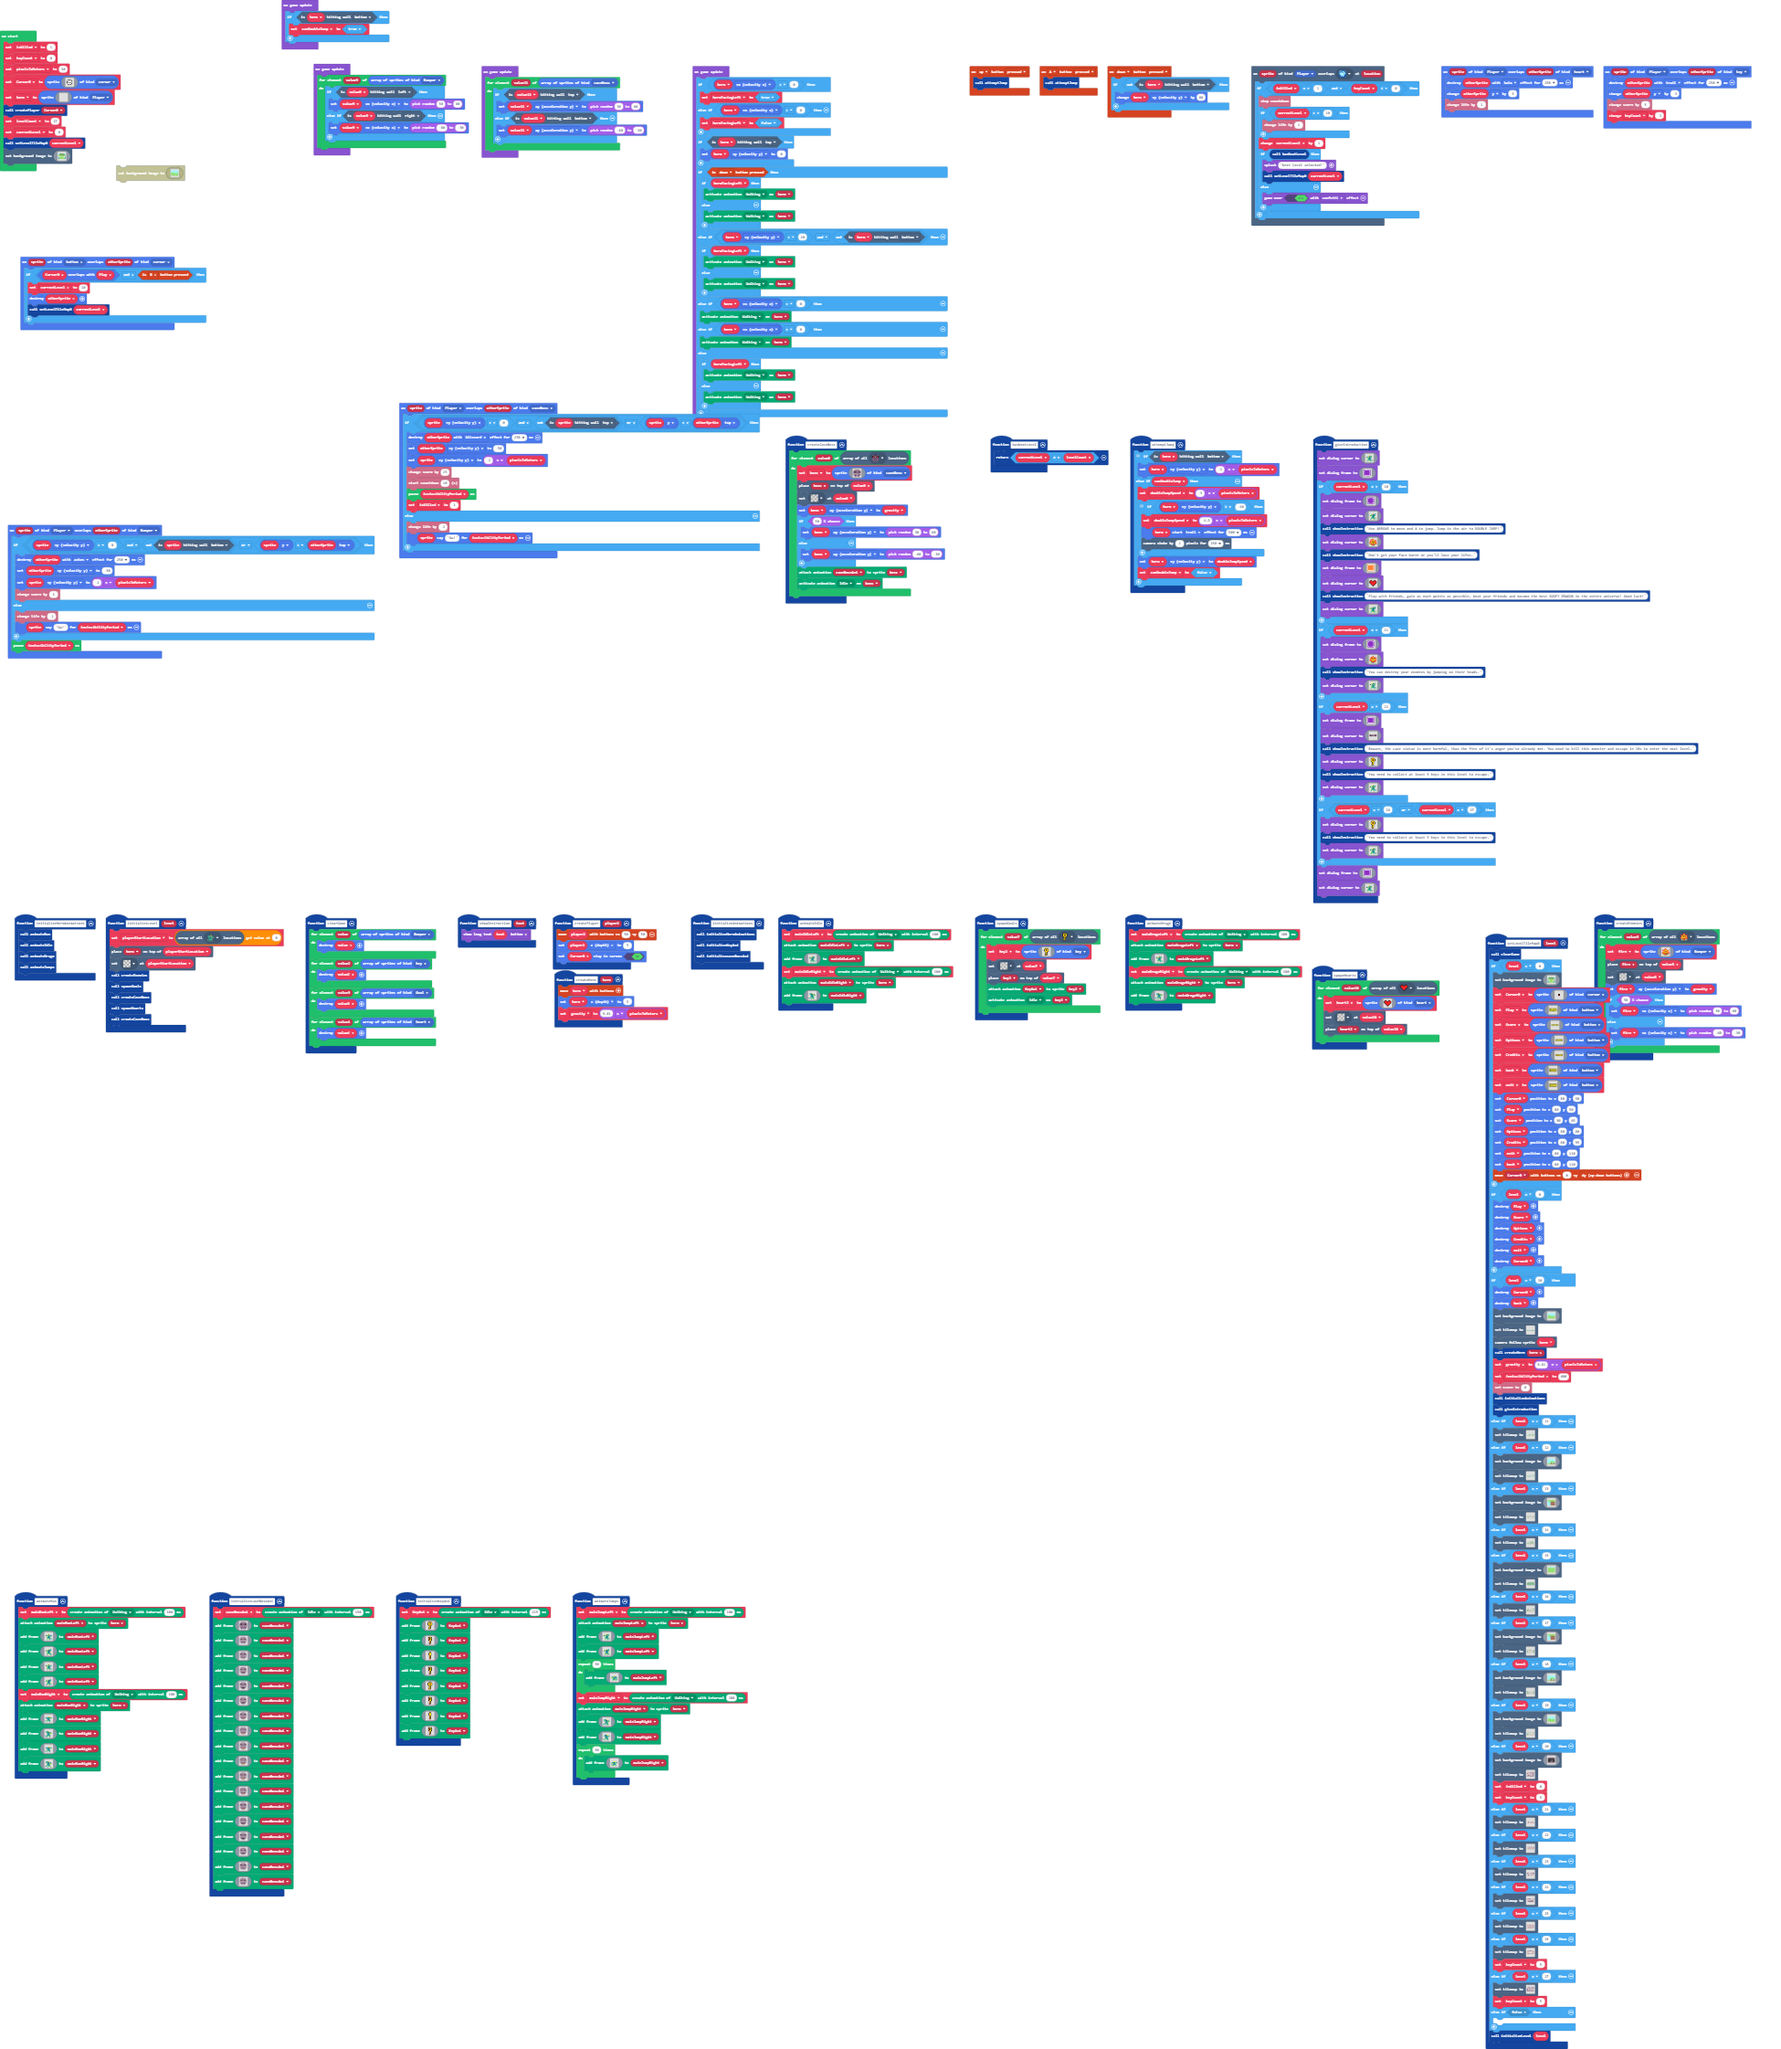
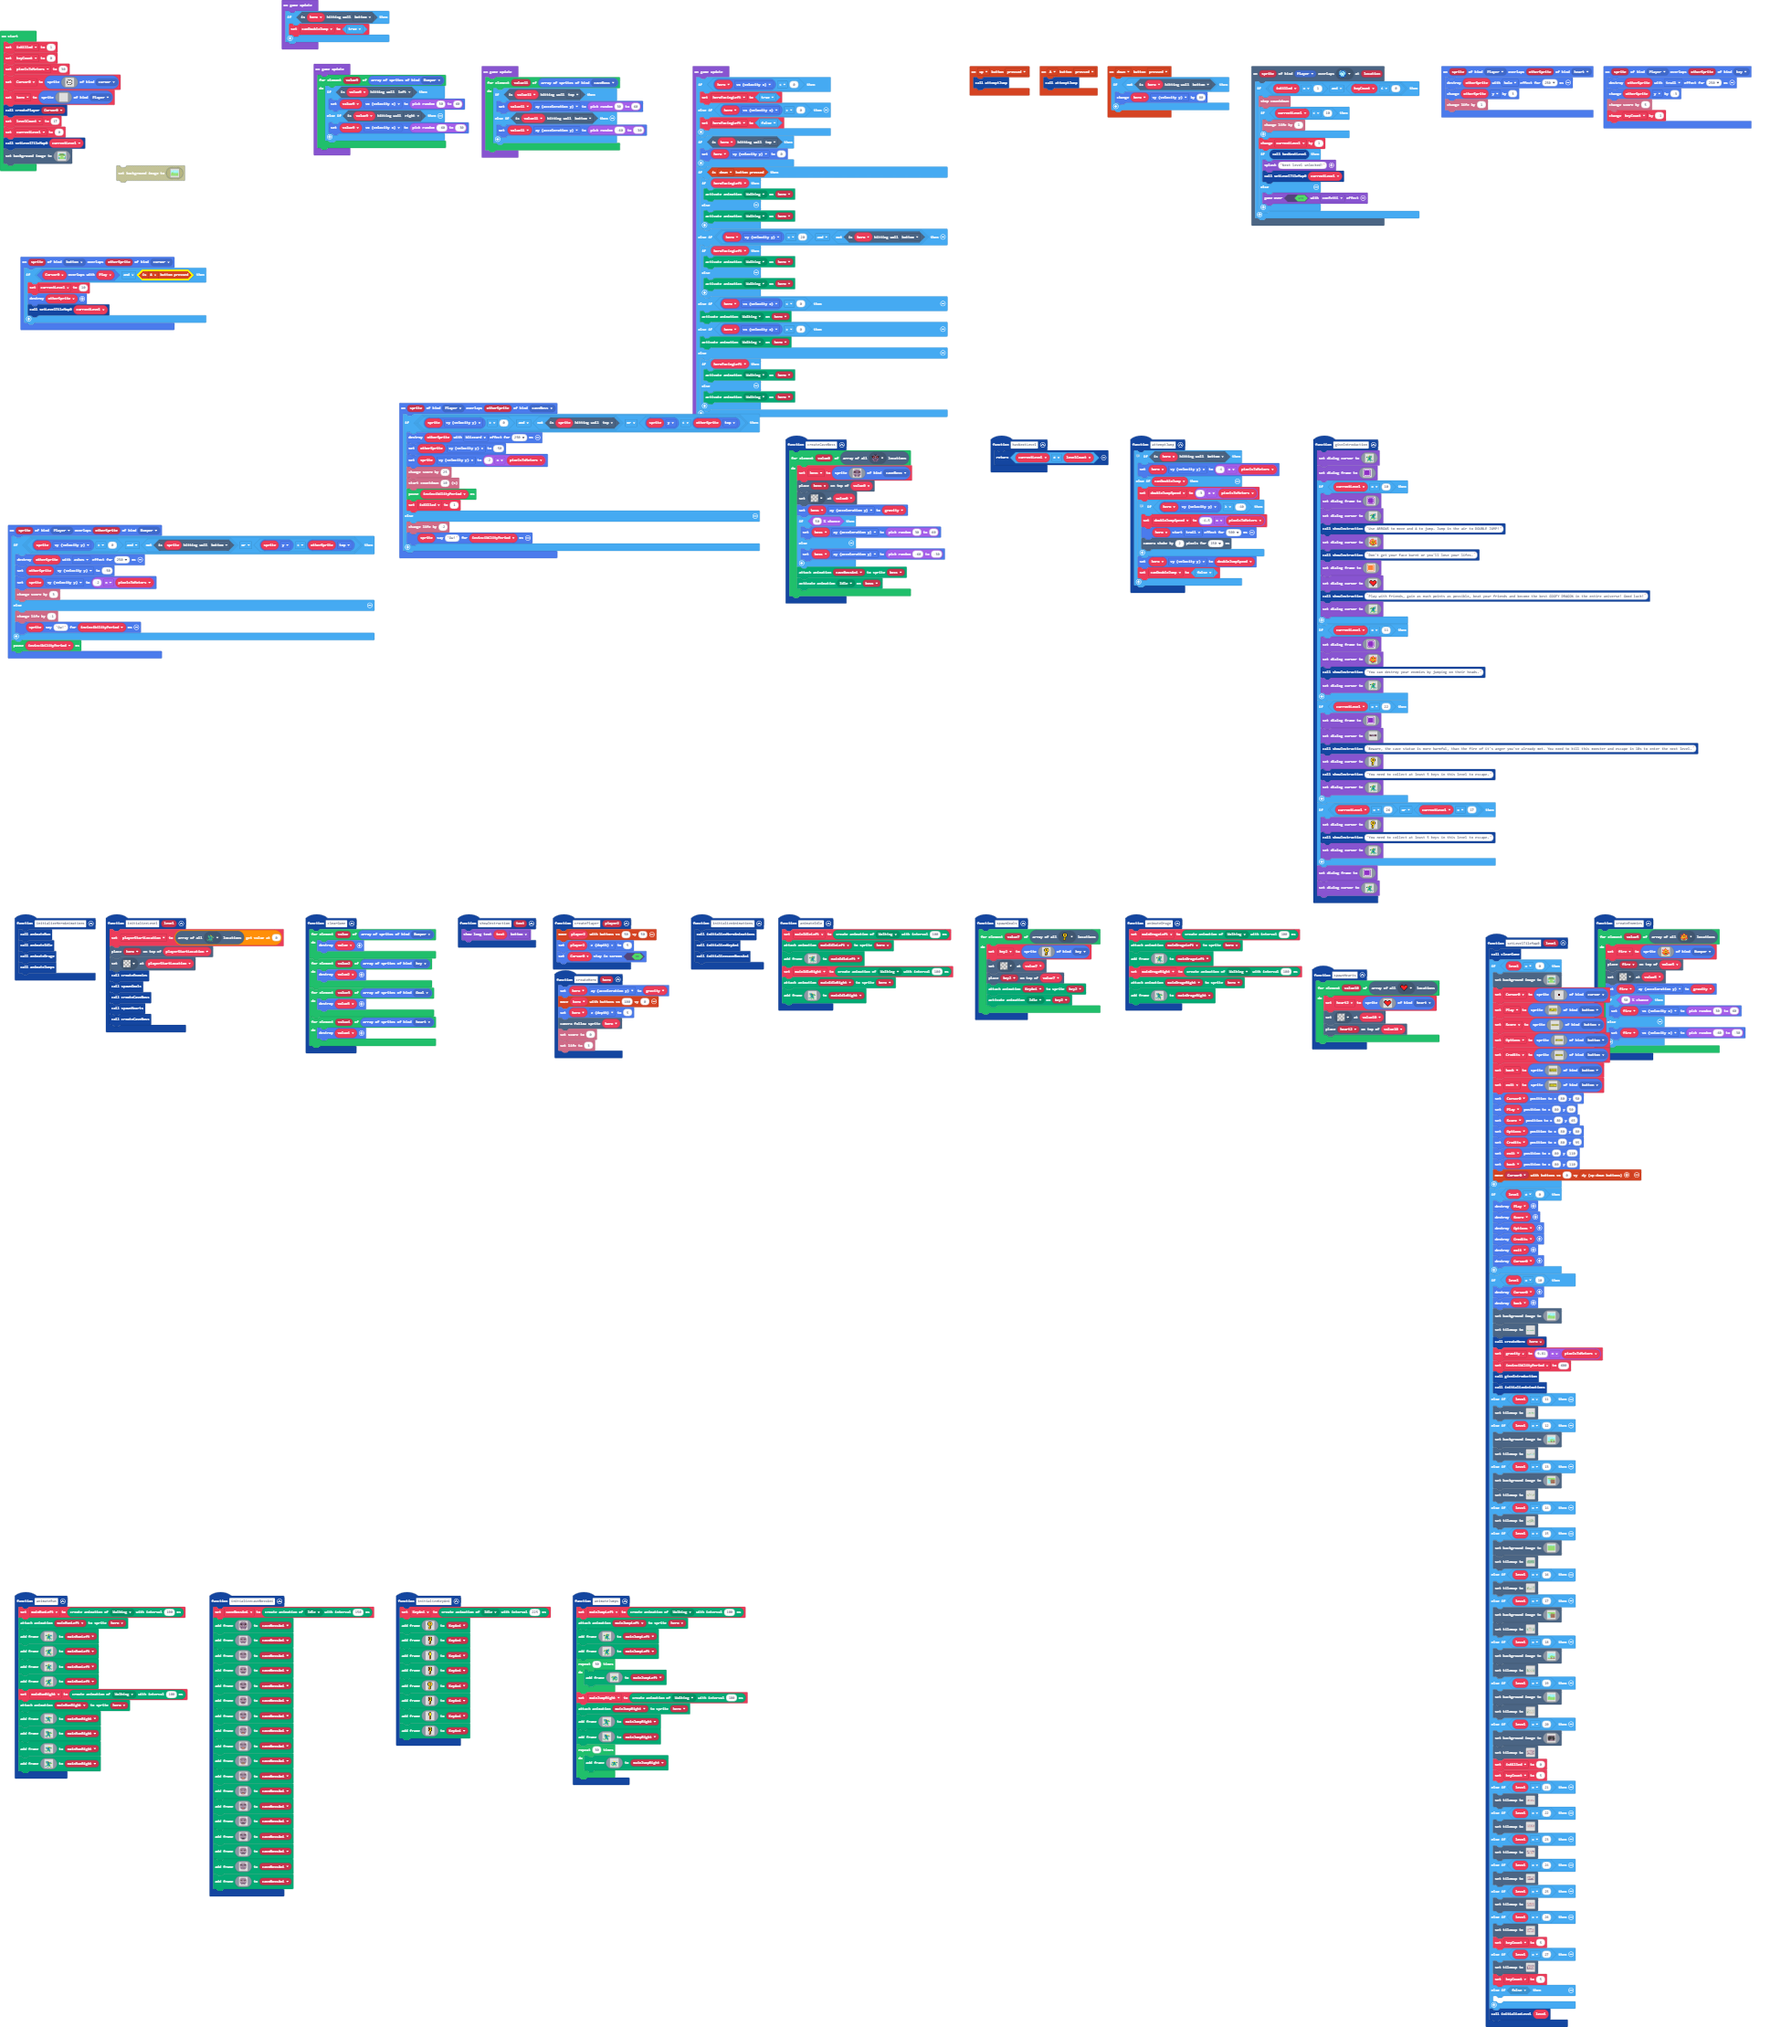
Update main.blocks, main.ts

diff --git a/main.ts b/main.ts
@@ -1008,13 +1008,11 @@ function setLevelTileMap0 (level: number) {
             7777777777777777777777799999997777777777777777777777777777777777777777777777777777777777777777777777777777777777777777777777777777777777777777777777777777777777
             `)
         tiles.setTilemap(tilemap`level_1`)
-        scene.cameraFollowSprite(hero)
         createHero(hero)
         gravity = 9.81 * pixelsToMeters
         invincibilityPeriod = 600
-        info.setScore(0)
-        initializeAnimations()
         giveIntroduction()
+        initializeAnimations()
     } else if (level == 11) {
         tiles.setTilemap(tilemap`level2`)
     } else if (level == 12) {
@@ -2296,9 +2294,12 @@ controller.down.onEvent(ControllerButtonEvent.Pressed, function () {
     }
 })
 function createHero (hero: Sprite) {
-    controller.moveSprite(hero)
+    hero.ay = gravity
+    controller.moveSprite(hero, 100, 0)
     hero.z = 5
-    gravity = 9.81 * pixelsToMeters
+    scene.cameraFollowSprite(hero)
+    info.setScore(0)
+    info.setLife(3)
 }
 function spawnHearts () {
     for (let value10 of tiles.getTilesByType(assets.tile`myTile3`)) {
@@ -2328,7 +2329,7 @@ function showInstruction (text: string) {
     game.showLongText(text, DialogLayout.Bottom)
 }
 sprites.onOverlap(SpriteKind.button, SpriteKind.cursor, function (sprite, otherSprite) {
-    if (Cursor0.overlapsWith(Play) && controller.B.isPressed()) {
+    if (Cursor0.overlapsWith(Play) && controller.A.isPressed()) {
         currentLevel = 10
         otherSprite.destroy()
         setLevelTileMap0(currentLevel)
